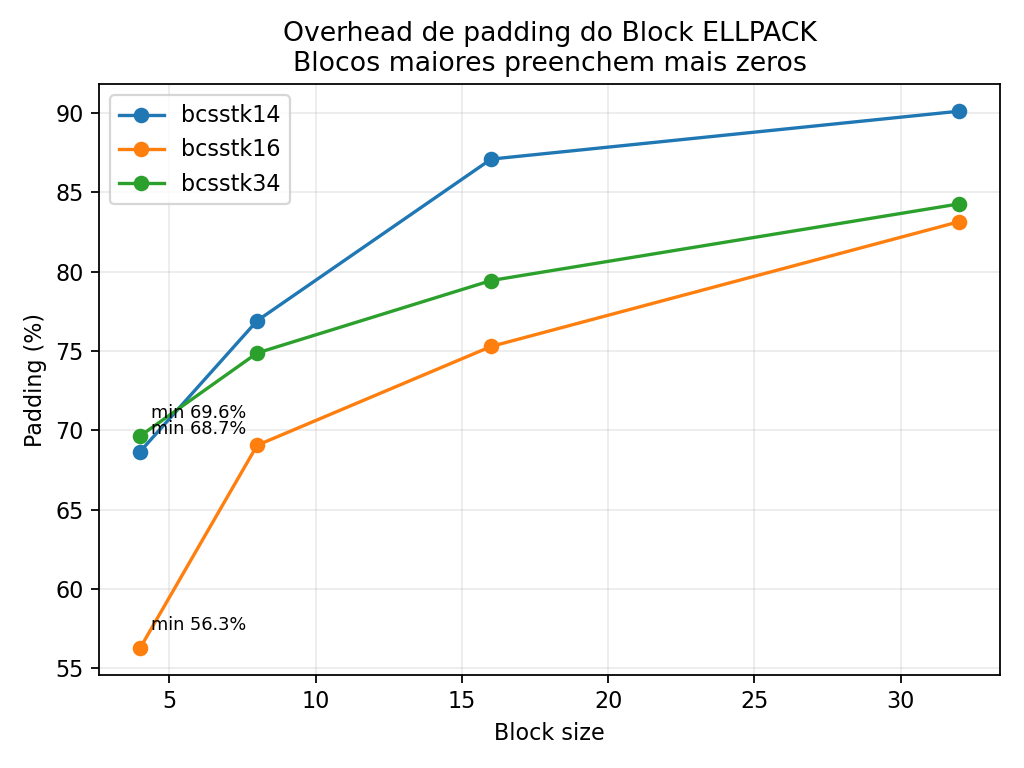
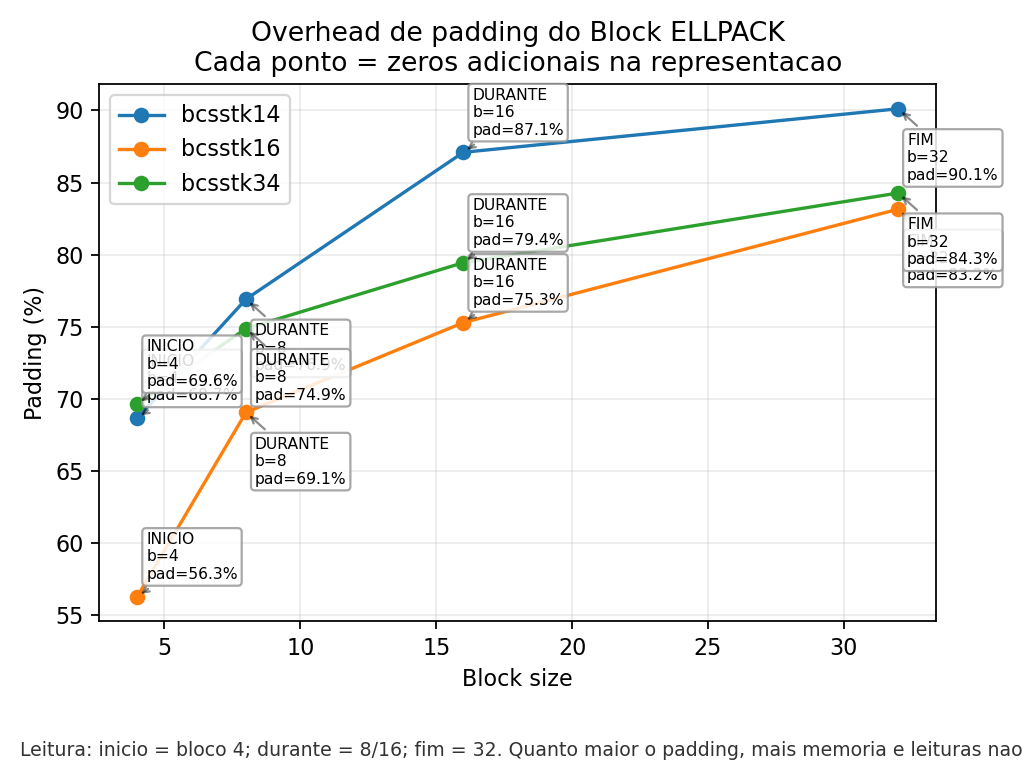
docs: add point-by-point plot explanations

diff --git a/scripts/analyze_cg_results.py b/scripts/analyze_cg_results.py
@@ -68,6 +68,24 @@ with metrics_path.open("w", newline="") as stream:
         writer.writerow({field: (f"{row[field]:.9g}" if isinstance(row[field], float) else row[field]) for field in fields})
 
 base = [row for row in stats if row["family"] == "base"]
+
+
+def annotate_point(axis, x, y, label, offset):
+    axis.annotate(
+        label,
+        (x, y),
+        xytext=offset,
+        textcoords="offset points",
+        fontsize=7,
+        bbox={"boxstyle": "round,pad=0.25", "fc": "white", "ec": "#999999", "alpha": 0.85},
+        arrowprops={"arrowstyle": "->", "alpha": 0.45},
+    )
+
+
+def add_story(fig, text):
+    fig.text(0.02, 0.015, text, fontsize=8.5, color="#333333")
+
+
 fig, axis = plt.subplots()
 for matrix in sorted({row["matrix"] for row in base}):
     values = sorted((row for row in base if row["matrix"] == matrix), key=lambda row: row["block_size"])
@@ -79,21 +97,22 @@ for matrix in sorted({row["matrix"] for row in base}):
         capsize=4,
         label=matrix,
     )
-    best = min(values, key=lambda row: row["solve_mean_s"])
-    axis.annotate(
-        f"melhor: bloco {best['block_size']}",
-        (best["block_size"], best["solve_mean_s"]),
-        xytext=(5, 8),
-        textcoords="offset points",
-        fontsize=8,
-        arrowprops={"arrowstyle": "->", "alpha": 0.5},
-    )
+    for index, row in enumerate(values):
+        stage = "INICIO" if index == 0 else "FIM" if index == len(values) - 1 else "DURANTE"
+        annotate_point(
+            axis,
+            row["block_size"],
+            row["solve_mean_s"],
+            f"{stage}\nb={row['block_size']} | {row['solve_mean_s']:.3f}s\npad={row['padding_overhead'] * 100:.1f}%",
+            (4, 8 if index % 2 == 0 else -38),
+        )
 axis.set_xlabel("Block size")
 axis.set_ylabel("Tempo medio de solucao (s)")
-axis.set_title("Tempo por block size\nBlocos menores vencem por reduzir padding")
+axis.set_title("Tempo por block size\nCada ponto = media de 3 execucoes")
 axis.grid(alpha=0.25)
 axis.legend()
-fig.tight_layout()
+add_story(fig, "Leitura: inicio = bloco 4; durante = blocos 8/16; fim = bloco 32. O padding indica zeros adicionados pelo Block ELLPACK.")
+fig.tight_layout(rect=(0, 0.07, 1, 1))
 fig.savefig(plots_dir / "solve_time_by_block.png", dpi=160)
 plt.close(fig)
 
@@ -106,19 +125,21 @@ axis.errorbar(
     marker="o",
     capsize=4,
 )
-axis.annotate(
-    "mais processos nao ajudam\n neste tamanho de matriz",
-    (strong[-1]["mpi_processes"], strong[-1]["solve_mean_s"]),
-    xytext=(-105, 20),
-    textcoords="offset points",
-    fontsize=8,
-    arrowprops={"arrowstyle": "->", "alpha": 0.5},
-)
+for index, row in enumerate(strong):
+    stage = "INICIO" if index == 0 else "FIM" if index == len(strong) - 1 else "DURANTE"
+    annotate_point(
+        axis,
+        row["mpi_processes"],
+        row["solve_mean_s"],
+        f"{stage}\nMPI={row['mpi_processes']}\n{row['solve_mean_s']:.3f}s",
+        (-48, 10 if index % 2 == 0 else -35),
+    )
 axis.set_xlabel("Processos MPI")
 axis.set_ylabel("Tempo medio de solucao (s)")
-axis.set_title("Strong scaling: bcsstk16, block 8\nA comunicacao supera o paralelismo")
+axis.set_title("Strong scaling: bcsstk16, block 8\nCada ponto = media de 3 execucoes")
 axis.grid(alpha=0.25)
-fig.tight_layout()
+add_story(fig, "Leitura: inicio = 1 processo; durante = 2; fim = 4. O tempo cresce porque a sincronizacao MPI custa mais que o paralelismo ganho.")
+fig.tight_layout(rect=(0, 0.07, 1, 1))
 fig.savefig(plots_dir / "strong_scaling_time.png", dpi=160)
 plt.close(fig)
 
@@ -126,14 +147,22 @@ fig, axis = plt.subplots()
 axis.plot([row["mpi_processes"] for row in strong], [row["speedup"] for row in strong], "o-", label="Speedup")
 axis.plot([row["mpi_processes"] for row in strong], [row["efficiency"] for row in strong], "s-", label="Eficiencia")
 axis.plot([row["mpi_processes"] for row in strong], [row["mpi_processes"] for row in strong], "--", color="gray", label="Ideal")
-axis.annotate("speedup abaixo do ideal\n(overhead MPI)", (4, strong[-1]["speedup"]), xytext=(-110, -35), textcoords="offset points", fontsize=8, arrowprops={"arrowstyle": "->", "alpha": 0.5})
+for index, row in enumerate(strong):
+    annotate_point(
+        axis,
+        row["mpi_processes"],
+        row["speedup"],
+        f"MPI={row['mpi_processes']}\nS={row['speedup']:.3f}x\nE={row['efficiency']:.3f}",
+        (-42, 10 if index % 2 == 0 else -38),
+    )
 axis.set_xlabel("Processos MPI")
 axis.set_ylabel("Fator")
-axis.set_title("Strong scaling: speedup e eficiencia")
+axis.set_title("Strong scaling: speedup e eficiencia\nCirculos = speedup | quadrados = eficiencia")
 axis.set_xticks([row["mpi_processes"] for row in strong])
 axis.grid(alpha=0.25)
 axis.legend()
-fig.tight_layout()
+add_story(fig, "Leitura: a linha pontilhada e o ideal; a distancia entre ela e os circulos mostra o overhead MPI. A eficiencia usa a escala da direita conceitual: 1,0 = 100%.")
+fig.tight_layout(rect=(0, 0.07, 1, 1))
 fig.savefig(plots_dir / "strong_scaling_speedup_efficiency.png", dpi=160)
 plt.close(fig)
 
@@ -142,14 +171,22 @@ fig, axis = plt.subplots()
 axis.plot([row["omp_threads"] for row in hybrid], [row["speedup"] for row in hybrid], "o-", label="Speedup")
 axis.plot([row["omp_threads"] for row in hybrid], [row["efficiency"] for row in hybrid], "s-", label="Eficiencia")
 axis.plot([row["omp_threads"] for row in hybrid], [row["omp_threads"] for row in hybrid], "--", color="gray", label="Ideal")
-axis.annotate("ganho real: 1,447x\ncom 4 threads", (4, hybrid[-1]["speedup"]), xytext=(-105, 18), textcoords="offset points", fontsize=8, arrowprops={"arrowstyle": "->", "alpha": 0.5})
+for index, row in enumerate(hybrid):
+    annotate_point(
+        axis,
+        row["omp_threads"],
+        row["speedup"],
+        f"{'INICIO' if index == 0 else 'FIM' if index == len(hybrid) - 1 else 'DURANTE'}\nT={row['omp_threads']}\nS={row['speedup']:.3f}x\nE={row['efficiency']:.3f}",
+        (-42, 10 if index % 2 == 0 else -42),
+    )
 axis.set_xlabel("Threads OpenMP")
 axis.set_ylabel("Fator")
-axis.set_title("Escala hibrida: speedup e eficiencia")
+axis.set_title("Escala hibrida: speedup e eficiencia\nMPI fixo em 2 processos")
 axis.set_xticks([row["omp_threads"] for row in hybrid])
 axis.grid(alpha=0.25)
 axis.legend()
-fig.tight_layout()
+add_story(fig, "Leitura: inicio = 1 thread; durante = 2; fim = 4. O speedup cresce, mas fica abaixo do ideal porque as threads disputam memoria.")
+fig.tight_layout(rect=(0, 0.07, 1, 1))
 fig.savefig(plots_dir / "hybrid_scaling_speedup_efficiency.png", dpi=160)
 plt.close(fig)
 
@@ -157,14 +194,22 @@ fig, axis = plt.subplots()
 for matrix in sorted({row["matrix"] for row in base}):
     values = sorted((row for row in base if row["matrix"] == matrix), key=lambda row: row["block_size"])
     axis.plot([row["block_size"] for row in values], [row["padding_overhead"] * 100 for row in values], "o-", label=matrix)
-    lowest = min(values, key=lambda row: row["padding_overhead"])
-    axis.annotate(f"min {lowest['padding_overhead'] * 100:.1f}%", (lowest["block_size"], lowest["padding_overhead"] * 100), xytext=(5, 8), textcoords="offset points", fontsize=8)
+    for index, row in enumerate(values):
+        stage = "INICIO" if index == 0 else "FIM" if index == len(values) - 1 else "DURANTE"
+        annotate_point(
+            axis,
+            row["block_size"],
+            row["padding_overhead"] * 100,
+            f"{stage}\nb={row['block_size']}\npad={row['padding_overhead'] * 100:.1f}%",
+            (4, 8 if index % 2 == 0 else -32),
+        )
 axis.set_xlabel("Block size")
 axis.set_ylabel("Padding (%)")
-axis.set_title("Overhead de padding do Block ELLPACK\nBlocos maiores preenchem mais zeros")
+axis.set_title("Overhead de padding do Block ELLPACK\nCada ponto = zeros adicionais na representacao")
 axis.grid(alpha=0.25)
 axis.legend()
-fig.tight_layout()
+add_story(fig, "Leitura: inicio = bloco 4; durante = 8/16; fim = 32. Quanto maior o padding, mais memoria e leituras nao uteis no SpMV.")
+fig.tight_layout(rect=(0, 0.07, 1, 1))
 fig.savefig(plots_dir / "padding_by_block.png", dpi=160)
 plt.close(fig)
 

diff --git a/report/report.md b/report/report.md
@@ -219,6 +219,24 @@ matriz.
 
 ### Graficos
 
+#### Como ler os graficos
+
+Todos os pontos representam a media de tres execucoes. As barras de erro
+representam o desvio padrao entre as repeticoes. As caixas indicam a etapa da
+historia do experimento:
+
+```text
+INICIO   configuracao de referencia
+DURANTE  configuracao intermediaria
+FIM      maior block size, numero de processos ou numero de threads
+```
+
+Nos graficos de tempo, o valor dentro da caixa e o tempo medio em segundos.
+Nos graficos de escala, `S` significa speedup e `E` significa eficiencia. A
+linha pontilhada mostra o comportamento ideal: dobrar os recursos deveria
+dobrar o speedup. No grafico de padding, `pad` e a porcentagem de zeros
+adicionados pelo Block ELLPACK, nao zeros existentes no dataset original.
+
 ![Tempo por block size](../results/plots/tvbox/solve_time_by_block.png)
 
 **Historia do grafico:** o bloco 4 foi o melhor para as tres matrizes. Ao
